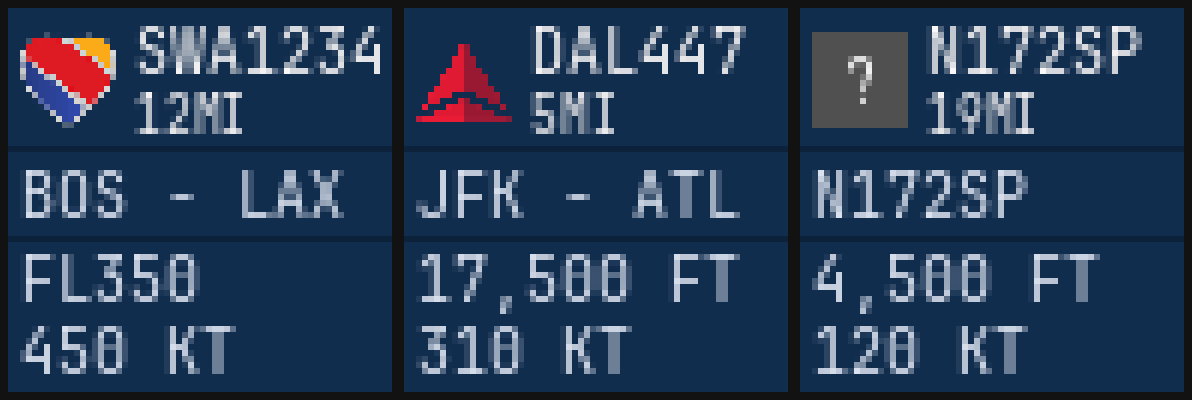
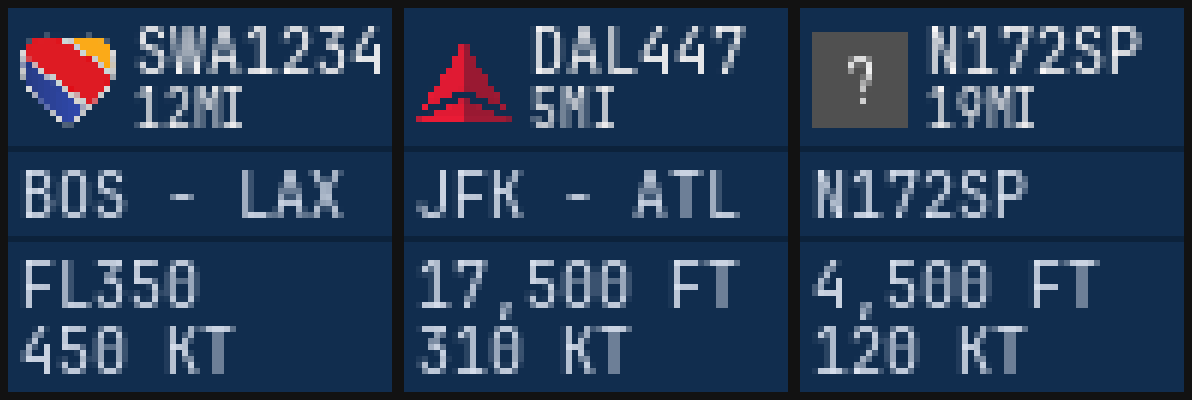
tweaks

diff --git a/renderer.py b/renderer.py
@@ -96,11 +96,11 @@ def compose(
     avail = W - 19
     while flight and d.textbbox((0, 0), flight, font=f10)[2] > avail:
         flight = flight[:-1]
-    d.text((21, -1), flight, fill=c.color_flight, font=f10)
+    d.text((21, 0), flight, fill=c.color_flight, font=f10)
 
     if aircraft.distance_km:
         d.text(
-            (21, 12),
+            (21, 11),
             _dist_str(aircraft.distance_km, c.distance_unit),
             fill=c.color_flight,
             font=f8,
@@ -122,8 +122,8 @@ def compose(
 
     alt_str = _alt_str(aircraft.altitude_ft, c.fl_transition_ft)
     spd_str = f"{aircraft.speed_kts} KT" if aircraft.speed_kts is not None else "-- KT"
-    d.text((2, 38), alt_str, fill=c.color_data, font=f10)
-    d.text((2, 51), spd_str, fill=c.color_data, font=f10)
+    d.text((2, 39), alt_str, fill=c.color_data, font=f10)
+    d.text((2, 50), spd_str, fill=c.color_data, font=f10)
 
     return img
 
